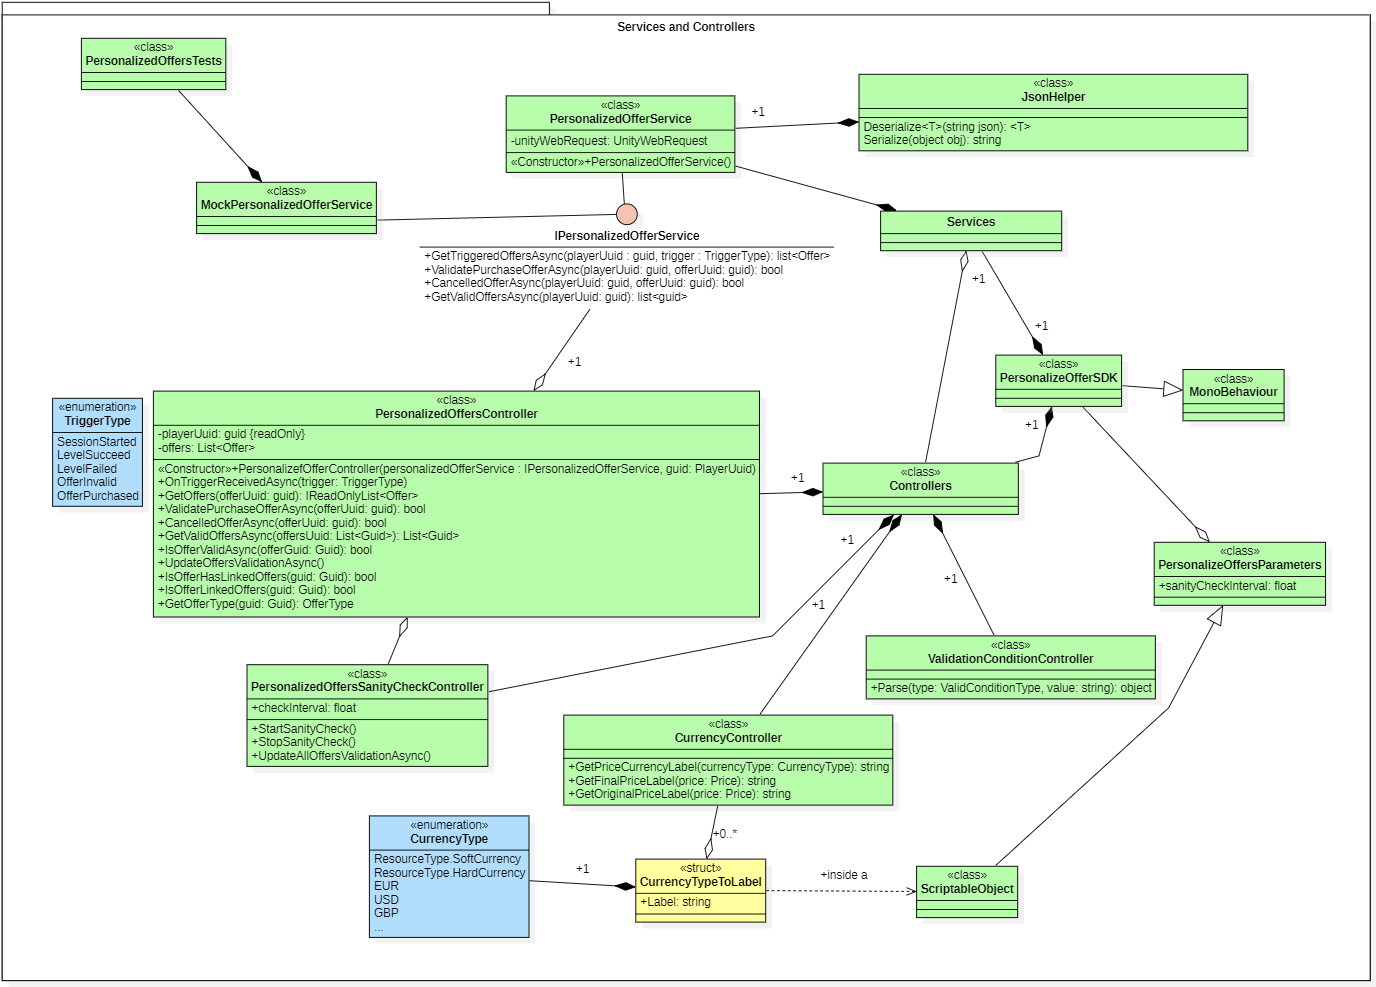
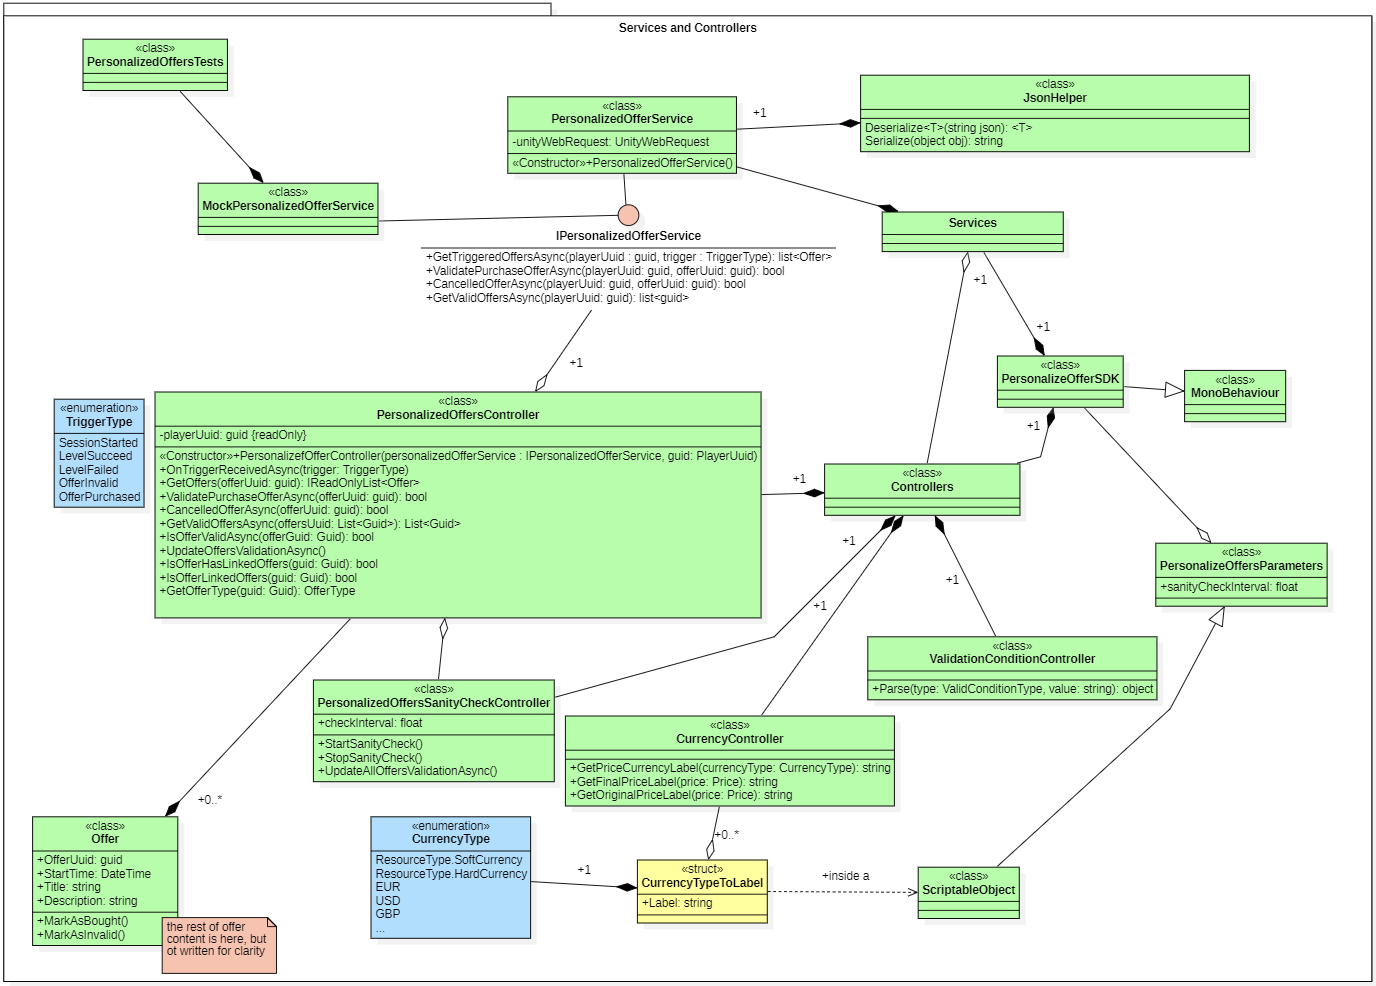
update diagramm + scale and testing strategy

diff --git a/README.md b/README.md
@@ -1,17 +1,37 @@
 # Personalized Offer System for a Mobile Game SDK
 
+# Table of Contents
+- [Introduction](#introduction)
+- [Problem Statement](#problem-statement)
+- [Personal Brief Note](#personal-brief-note)
+- [Sequence Diagrams for Interaction Between Client and Server](#sequence-diagrams-for-interaction-between-client-and-server)
+- [Class Diagrams](#class-diagrams)
+- [Infrastructure Overview](#infrastructure-overview)
+- [API Endpoint Definitions](#api-endpoint-definitions)
+- [Edge Cases and Mitigation Strategies](#edge-cases-and-mitigation-strategies)
+- [Mock Server Validation Strategies](#mock-server-validation-strategies)
+- [Testing and Scalability](#testing-and-scalability)
+
+---
+
 ## Introduction
+
 This project aims to design a personalized offer system for a mobile game SDK. The system allows server-side configuration of offers, including rewards, prices, triggers, validation conditions, and user segmentation. The system must also be extensible to support additional features such as multiple offers, chained offers, and endless offers.
 
 ## Problem Statement
+
 The main challenge is to create a scalable and modular system that clearly separates responsibilities between the client (Unity) and the server. The system must handle dynamic offers, validate complex conditions, and adapt to new types of offers and triggers with minimal changes.
+
 ---
 
 ## Personal Brief Note
-
-The primary goal for me was to make most of the logic server-side to ensure **scalability** and **security**. I aimed to create a package that is "clef en main" (ready-to-use) for other developers, allowing them to easily integrate it into their games. I tried to make the SDK as **engine-agnostic** as possible (well, Unity-agnostic in our case), except for the SDK entry point and the use of `UnityWebRequest` (which can be replaced with `HttpClient` in another implementation) in the service.
+The primary goal for me was to make most of the logic server-side to ensure **scalability** and **security**.
+I tried to make the SDK as **engine-agnostic** as possible (well, Unity-agnostic in our case), except for the SDK entry point and the use of `UnityWebRequest` (which can be replaced with `HttpClient` in another implementation) in the service.
+I aimed to create a package that is ready-to-use for other developers, allowing them to easily integrate it into their games. I probably could not implement all the diagram to make it works but I wanted to do that to be sure my diagram was solid.
+The folder you want to check is PersonalizedSdk in the project. The UI is simple, without animation, to prove the capacity of the controllers to work.
 
 I know I spent some time trying to imagine all possible backend services (like purchase, user acquisition, authentication) and eventually removed my initial diagrams to focus solely on **personalized offers** in multiple diagrams (with notes to replace the older, more complex diagrams). Oh, and I also spent time on Postman documentation and Markdown files because I wanted a clean `README` (which should probably be divided into multiple files with links—sorry!). But I'm not sure if that was really a waste of time.
+I also had some small time-loss on getting back to C♯ since my last position was mainly typescript. I'm back on track now but I probably loose a small hour on that.
 
 Regarding **additional features**, I think more **client-side caching** would be interesting to create a more robust fallback system. A **push notification system** could also be added, with specific endpoints to fetch future personalized offers for the player. Additionally, **battle pass personalized offers** could be a great way to attract new players, and **multi-game personalized offers** (e.g., buy an offer to unlock unique items in another Voodoo game) could add a new layer of engagement.
 
@@ -20,7 +40,7 @@ Regarding **additional features**, I think more **client-side caching** would be
 
 ## Sequence Diagrams for interaction between client and server
 
-### Offer class diagramm
+### Offer class diagram
 ![Offer class diagram](./offer_class_diagram.png)
 
 ### Controllers and Services diagram
@@ -51,7 +71,7 @@ It's a try but was interesting time spent, eager to learn more about tools I don
 
 ## API Endpoint Definitions
 
-## Summary
+### Summary
 
 | Endpoint                | HTTP Verb | Route                      | Description                                      |
 |-------------------------|----------|----------------------------|--------------------------------------------------|
@@ -208,7 +228,7 @@ Fetches a list of valid offer UUIDs for a specific player.
 
 ## Edge Cases and Mitigation Strategies
 
-#### Summary of Edge Cases and Mitigation Strategies
+### Summary of Edge Cases and Mitigation Strategies
 
 | **Edge Case**                     | **Mitigation Strategies**                                                                 |
 |------------------------------------|------------------------------------------------------------------------------------------|
@@ -220,10 +240,11 @@ Fetches a list of valid offer UUIDs for a specific player.
 
 
 ### 1. Backend Unavailable
-### Scenario:
+
+#### Scenario:
 The server is down or unreachable, and the client cannot fetch or validate offers.
 
-### Mitigation Strategies:
+#### Mitigation Strategies:
 - **Client-Side Caching**:
   - Cache offers locally on the client so that the game can still display offers even if the server is unavailable.
   - Use a timestamp to invalidate cached offers after a certain period.
@@ -236,11 +257,11 @@ The server is down or unreachable, and the client cannot fetch or validate offer
 
 ---
 
-## 2. Invalid JSON Response
-### Scenario:
+### 2. Invalid JSON Response
+#### Scenario:
 The server sends malformed or invalid JSON data, causing the client to fail when parsing the response.
 
-### Mitigation Strategies:
+#### Mitigation Strategies:
 - **Server-Side Validation**:
   - Ensure the server validates all responses before sending them to the client.
 
@@ -252,11 +273,11 @@ The server sends malformed or invalid JSON data, causing the client to fail when
 
 ---
 
-## 3. User Tries to Purchase an Invalid Offer
-### Scenario:
+### 3. User Tries to Purchase an Invalid Offer
+#### Scenario:
 The user attempts to purchase an offer that is no longer valid (for instance offer expired or already purchased).
 
-### Mitigation Strategies:
+#### Mitigation Strategies:
 - **Pre-Purchase Validation**:
   - Validate the offer on the server before processing the purchase.
 
@@ -269,24 +290,24 @@ The user attempts to purchase an offer that is no longer valid (for instance off
 
 ---
 
-## 4. Sanity Check Overloads the System
-### Scenario:
+### 4. Sanity Check Overloads the System
+#### Scenario:
 The periodic validation offers sanity check overloads the server or client.
 
-### Mitigation Strategies:
+#### Mitigation Strategies:
 - **Throttling**:
-  - Limit the frequency of sanity checks (e.g., once every 5 minutes).
+  - Limit the frequency of sanity checks, like once every 5 minutes.
 
 - **Client-Side Optimization**:
   - Only validate offers that are currently visible to the user (in popup or vignette in game main hub)
 
 ---
 
-## 5. Network Latency or Timeouts
-### Scenario:
+### 5. Network Latency or Timeouts
+#### Scenario:
 Network latency or timeouts cause delays or failures in fetching or validating offers.
 
-### Mitigation Strategies:
+#### Mitigation Strategies:
   - **Timeout Handling**:
     - Set a reasonable timeout for API requests (something like 10 seconds) and handle timeouts gracefully in Unity.
 
@@ -297,17 +318,17 @@ Network latency or timeouts cause delays or failures in fetching or validating o
 ---
 
 
-# Mock Server Validation Strategies
+## Mock Server Validation Strategies
 
 To validate the personalized offer system without relying on actual server endpoints, we propose the following three strategies in order of preference:
 
 ---
 
-## 1. Unit Tests with Mock Responses directly in Unity
-### Description:
+### 1. Unit Tests with Mock Responses directly in Unity
+#### Description:
 Use **unit tests** within Unity to simulate server responses. This approach is fully embedded in Unity and can be automated using **GitHub Actions**.
 
-### Detailed Approach:
+#### Detailed Approach:
 1. **Mock Server Responses**:
    - Create mock JSON responses for each API endpoint
    - Store these responses as static files or hardcoded strings in Unity.
@@ -341,7 +362,7 @@ Use **unit tests** within Unity to simulate server responses. This approach is f
    - Test valid and invalid responses for each endpoint.
    - Simulate edge cases from "Edge Cases and Mitigation Strategies" section
 
-### Comments:
+#### Comments:
 - **Pros**:
   - Fully integrated into Unity.
   - Easy to automate with GitHub Actions.
@@ -352,11 +373,11 @@ Use **unit tests** within Unity to simulate server responses. This approach is f
 
 ---
 
-## 2. Small Node.js Server with Vite-Express
-### Description:
+### 2. Small Node.js Server with Vite-Express
+#### Description:
 Set up a lightweight **Node.js server** using **Vite-Express** to simulate server endpoints. This approach provides more flexibility than unit tests and can be run locally or in a CI/CD pipeline.
 
-### Detailed Approach:
+#### Detailed Approach:
 1. **Set Up Node.js Server**:
    - Install Node.js and create a new project:
      ```bash
@@ -393,13 +414,13 @@ Set up a lightweight **Node.js server** using **Vite-Express** to simulate serve
      ```
 
 3. **Test in Unity**:
-   - Point Unity’s API calls to `http://localhost:3000`.
+   - Point Unity’s API calls to local server.
    - Test all endpoints and validate the responses.
 
 4. **Testing Techniques**:
    - Simulate different server responses like success, failure or edge cases.
 
-### Comments:
+#### Comments:
 - **Pros**:
   - More flexible than unit tests.
   - Can simulate real-world server behavior.
@@ -410,13 +431,13 @@ Set up a lightweight **Node.js server** using **Vite-Express** to simulate serve
 
 ---
 
-## 3. Postman Mock Server
-### Description:
+### 3. Postman Mock Server
+#### Description:
 Use **Postman** to create a mock server and simulate API responses. This approach is quick to set up but requires familiarity with Postman.
 I've never used myself contrary to the 2 other but I know it exists.
 [Documentation here](https://learning.postman.com/docs/designing-and-developing-your-api/mocking-data/setting-up-mock/)
 
-### Detailed Approach:
+#### Detailed Approach:
 
 1. **Create a Postman Collection**:
    - Define all API endpoints in a new collection
@@ -431,7 +452,7 @@ I've never used myself contrary to the 2 other but I know it exists.
 3. **Testing Techniques**:
    - Simulate different scenarios by updating the mock responses in Postman.
 
-### Comments:
+#### Comments:
 - **Pros**:
   - Quick and easy to set up.
   - No coding required.
@@ -443,7 +464,7 @@ I've never used myself contrary to the 2 other but I know it exists.
 
 ---
 
-### My preferences
+#### My preferences
 1. **Start with Unit Tests**:
    - Ideal for initial validation and integration with Unity.
    - Easy to automate with GitHub Actions.
@@ -454,6 +475,33 @@ I've never used myself contrary to the 2 other but I know it exists.
 3. **Use Postman for Quick Prototyping**:
    - Useful for quick validation or sharing with non-technical team members (and if you know how to use it).
 
+---
+
+## Testing and Scalability
+
+### Testing Strategies
+
+| **Category**            | **Purpose**                                                                 | **Tools/Examples**                                                                 |
+|--------------------------|-----------------------------------------------------------------------------|-----------------------------------------------------------------------------------|
+| **Unit Testing**         | Test individual components in isolation in their normal behaviour.                                    | Unity Test Framework, NUnit                                        |
+| **Integration Testing**  | Test interactions between components.                                       |  Unity Test ↔ mock server                           |
+| **End-to-End Testing**   | Test the entire system from client to server.                               | Node server, Postman.                                                    |
+| **Edge Case Testing**    | Test unexpected scenarios.                                                  | Simulate server downtime, malformed JSON for instance using  Unity Test                   |
+| **Stress Testing**       | Push the system beyond its limits to identify breaking points.              | Simulate lots of concurrent users, database overload. I know JMeter exist, never use it.  |
+
+
+### Scalability Strategies
+
+
+I've never used most of a tool writing here for client side. This in purely theorical in my mind but I'd be glad to have discussion over this.
+
+| **Category**            | **Purpose**                                                                 | **Implementation**                                                                |
+|--------------------------|-----------------------------------------------------------------------------|-----------------------------------------------------------------------------------|
+| **Horizontal Scaling**   | Handle increased traffic by adding more servers.                            | Use load balancers and auto-scaling like AWS     |
+| **Batching**   | Reduce server load.                            | Trigger system is already a batching system. Expand it to more triggers.|
+| **Caching**              | Improve response times and reduce server load.                          | Cache data struct in server side. I'd start simple with caching mechanism directly into backend code but a quick google search tell me tools like Redis exist. Don't know how to implement and use it. Implements more robust cache for offer in Unity |
+| **Database Optimization**| Ensure the database can handle large volumes of data.                       | Tansactionnal database like PostgreSQL or MySql for indexing and partionning and NoSql for scalabilty like MongoDB   |     |
+| **Monitoring and Logging**| Identify and resolve performance issues proactively.                        | Datadog or Prometheus for Metric, ElasticSearch for logging      |
 ---
 
 
